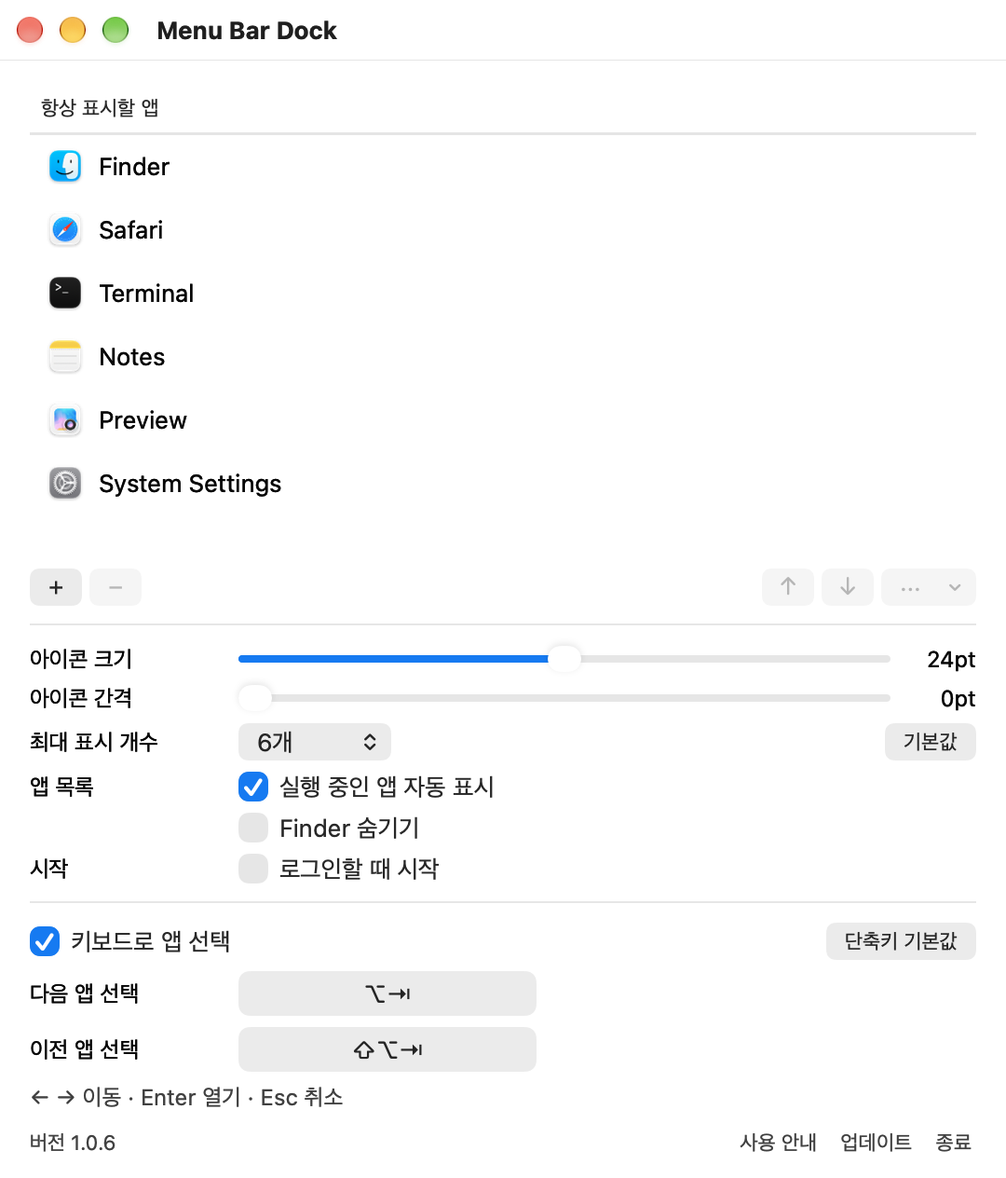
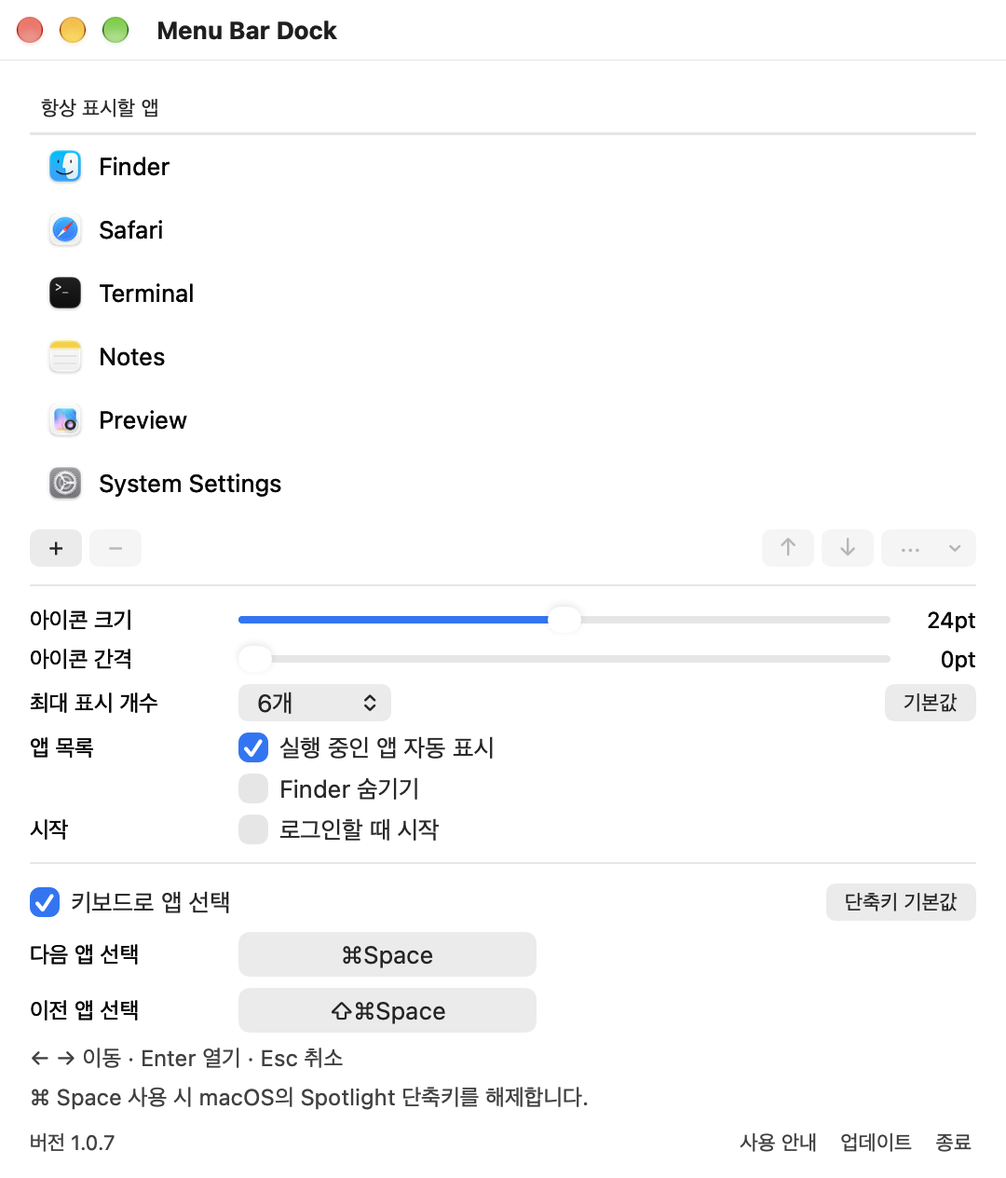
docs: ⌘ Space 사용법과 오픈소스 근거 및 검증 화면 갱신

diff --git a/docs/architecture.md b/docs/architecture.md
@@ -6,7 +6,7 @@
 
 사용자가 정한 순서를 유지하는 메뉴 막대 런처다. 설정에는 **항상 표시할 앱** 단일 목록을 제공한다. 미등록 실행 앱을 앞쪽에, 등록 앱을 뒤쪽에 지정 순서대로 표시하며 두 그룹에 같은 앱을 중복 표시하지 않는다. 실행 앱 자동 표시는 설정으로 끌 수 있다. 앱 활성화는 각 그룹의 상대 순서를 바꾸지 않는다. 실행 중 점·밑줄·배지와 예약 공간은 없다.
 
-단축키는 Option+Tab / Shift+Option+Tab 이동, Enter 실행, Esc 취소다. Option을 놓아도 실행하지 않는다. 사용자가 조합을 변경할 수 있다. 이미 실행된 앱에는 표준 reopen/activate 요청을 보내고, 종료된 앱은 실행한다. 새 창의 디스플레이 강제 지정과 다른 앱 창 이동은 사용자 요청으로 제외했다.
+단축키는 Command+Space / Shift+Command+Space 이동, Enter 실행, Esc 취소다. Command를 놓아도 실행하지 않는다. 사용자가 조합을 변경할 수 있다. 이미 실행된 앱에는 표준 reopen/activate 요청을 보내고, 종료된 앱은 실행한다. 새 창의 디스플레이 강제 지정과 다른 앱 창 이동은 사용자 요청으로 제외했다.
 
 선택 패널의 검색은 `NSMetadataQuery`로 macOS Spotlight 인덱스를 읽는다. `SearchSession`은 검색어별 결과와 선택을 관리하고, `SpotlightSearchService`는 OS 조회·취소·결과 변환을 담당한다. `SwitcherController`는 입력창을 유지한 채 앱 전환과 검색 결과를 전환한다. 새 입력마다 이전 요청을 취소하고 요청 세대 번호도 비교하여 늦은 응답을 버린다. 한글 조합 중에는 검색과 실행을 보류하며, 검색 결과 열기는 `SearchResultOpener`를 통해 처리한다. 검색 명령은 catalog의 등록·순서·제외 상태를 변경하지 않는다. 검색으로 새 앱을 실행했을 때의 Workspace 이벤트는 기존 자동 표시 정책을 따른다.
 
@@ -88,7 +88,7 @@ WorkspaceMonitor는 runningApplications KVO와 실행·종료·활성화·숨김
 
 기본 아이콘은 24pt(16–32pt), 추가 간격은 0pt(0–28pt)다. 원본의 custom image view와 표준 버튼의 렌더링 경계는 다르므로 원본의 40pt 수치를 그대로 사용하지 않는다. 이미지에는 요청한 크기를 그대로 적용한다. 표준 버튼이 이미지 크기에 맞춰 높이를 결정하므로 이전 버튼 높이를 크기의 상한으로 사용하지 않는다. 영역 너비는 아이콘 크기와 추가 간격의 합이다. 0pt에서는 앱이 여백을 추가하지 않으며 macOS가 각 독립 상태 항목에 붙이는 기본 여백은 남는다. 아이콘 크기를 바꿔도 추가 간격을 보존한다. 이미지 크기를 바꿀 때는 독립 복사본을 사용한다. 강제 aqua/darkAqua, 고정 대비 필터, 강제 active material을 사용하지 않는다. 표준 시스템 버튼이 외관과 입력을 담당한다.
 
-상단에는 앱 아이콘만 표시한다. 관리용 말줄임표나 런처 glyph는 없다. 표시 개수를 넘긴 앱은 Option+Tab 선택 패널에서 열고, 우클릭 또는 Control-클릭 메뉴에서 모든 옵션이 있는 단일 설정 창을 연다. Finder에서 앱 재실행 또는 선택 패널의 톱니 버튼으로도 설정을 연다. 앱이 없으면 상태 항목도 없다. 첫 실행은 설정을 열어 앱을 추가할 수 있게 한다.
+상단에는 앱 아이콘만 표시한다. 관리용 말줄임표나 런처 glyph는 없다. 표시 개수를 넘긴 앱은 Command+Space 선택 패널에서 열고, 우클릭 또는 Control-클릭 메뉴에서 모든 옵션이 있는 단일 설정 창을 연다. Finder에서 앱 재실행 또는 선택 패널의 톱니 버튼으로도 설정을 연다. 앱이 없으면 상태 항목도 없다. 첫 실행은 설정을 열어 앱을 추가할 수 있게 한다.
 
 사용자 [회귀 참고 이미지](assets/inactive-display-reference.png)의 흰색 번짐과 청록색 편향은 두 화면에서 비교해야 한다. 외관 강제 지정을 제거한 것만으로 이 문제가 해결됐다고 확정하지 않는다. 노치나 메뉴 폭 때문에 항목이 가려지면 표시 개수를 줄이거나 키보드 선택 패널을 사용한다. `isVisible`은 가림 판정 수단이 아니다. [Apple 문서](https://developer.apple.com/documentation/appkit/nsstatusitem/isvisible).
 
@@ -98,7 +98,11 @@ WorkspaceMonitor는 runningApplications KVO와 실행·종료·활성화·숨김
 
 세션이 열릴 때 목록 순서를 고정한다. 선택 도중 새 앱은 추가하지 않고 사라진 항목만 제거한다. 현재 앱이 없으면 정방향 첫 항목·역방향 마지막 항목부터 시작한다. 방향키·Tab도 이동하며 Return/keypad Enter로 실행한다. 검색 중 좌우 방향키는 글자 커서를 움직이고, Escape는 검색어를 지운 뒤 비어 있는 상태에서 패널을 닫는다. 전역 단축키와 패널 입력이 중복 이동하지 않도록 등록 조합은 전역 경로에서 처리한다.
 
-Carbon에는 지정 조합 두 개만 등록한다. 설정 기록 동안 등록을 중지하고 재개하며, 충돌 때 이전 조합을 복구한다. 키를 누르는 동안에만 반복 타이머가 있고 release/suspend/stop 시 제거한다. 단축키 실패해도 마우스와 설정에 접근할 수 있다.
+기본 조합은 ⌘ Space와 ⇧⌘ Space다. Carbon에는 지정 조합 두 개만 등록한다. 설정 기록 동안 등록을 중지하고 재개하며, 충돌 때 이전 조합을 복구한다. 키를 누르는 동안에만 반복 타이머가 있고 release/suspend/stop 시 제거한다. 단축키 실패해도 마우스와 설정에 접근할 수 있다.
+
+`DockPlatform.SpotlightShortcutOverride`는 ⌘ Space를 등록하기 전에 같은 조합인 Spotlight 시스템 항목 64만 해제하고 변경을 적용한다. 두 키 중 하나라도 등록에 실패하면 이번 시스템 설정 변경을 복구한다. 다른 단축키 항목과 사용자가 따로 지정한 Spotlight 조합은 보존한다. 성공한 해제는 앱 종료 후에도 유지한다. macOS가 해제한 Spotlight 조합의 독점권을 유지하면, ⌘ Space만 Spectacle/MASShortcut과 같은 일반 Carbon 등록으로 전환한다. 먼저 `CopySymbolicHotKeys`로 활성 시스템 충돌이 없는지 확인하며 다른 조합은 독점 등록을 유지한다. 자세한 근거와 한계는 [단축키 설계 결정](adr/0005-command-space-override.md)에 있다.
+
+단축키 저장 데이터에는 기본값 세대를 기록한다. 이전 기본 조합 두 개를 함께 쓰던 설정만 한 번 이전하며, 새 버전에서 사용자가 다시 지정한 조합은 다음 시작에도 유지한다. 선택 패널은 표시 문자열이 아니라 현재 등록한 키 코드·수정 키와 비교해 중복 입력을 소비한다.
 
 ApplicationLauncher는 같은 설치 경로의 진행 중 요청을 합친다. NSWorkspace.openApplication에 `createsNewApplicationInstance=false`, `allowsRunningApplicationSubstitution=false`를 명시한다. 신규·기존 앱 모두 activates=true인 표준 open/reopen 요청을 한 번 보낸다. 비활성 reopen 후 별도 activate를 보내던 경로는 제거했다. 다른 설치 위치가 반환되거나 OS가 실행을 거절하면 오류를 전달한다. 사용자 의도 없는 재시도나 강제 focus 탈취는 없다. [OpenConfiguration](https://developer.apple.com/documentation/appkit/nsworkspace/openconfiguration).
 

diff --git a/docs/verification/1.0.7.md b/docs/verification/1.0.7.md
@@ -1,0 +1,41 @@
+# 1.0.7 ⌘ Space 검증
+
+날짜: 2026-09-30. macOS 27.0, Apple Silicon, Apple Swift 6.4 / Command Line Tools에서 수행했다.
+
+## 변경 범위
+
+기본 단축키를 ⌘ Space / ⇧⌘ Space로 바꾸고 이전 기본값 두 개만 한 번 이전한다. 같은 키를 쓰는 Spotlight 설정을 해제한 다음 Carbon에 등록한다. 사용자 지정 Spotlight 키·다른 시스템 설정은 보존하고 등록 실패 시 이번 설정 변경을 복구한다. 선택 패널은 현재 조합에 해당하는 입력만 소비한다.
+
+Spectacle과 Rectangle/MASShortcut의 원문 소스, 일반 등록과 시스템 충돌 검사를 선택한 근거는 [설계 결정](../adr/0005-command-space-override.md)에 있다.
+
+## 로컬 결과
+
+| 검증 | 결과 |
+| --- | --- |
+| 경고를 오류로 처리한 Swift 빌드 | 통과 |
+| Swift Testing | 213개 통과: 앱/UI 70, 단축키 18, 플랫폼 60, 도메인 32, 저장 33 |
+| 시스템 설정 단위 테스트 | 기본값 부재, 기존 해제, 사용자 지정 키, 다른 항목 보존, 적용 실패 복구, 동시 변경, 저장 실패 확인 |
+| 단축키 단위 테스트 | 한 번만 이전, 사용자 지정 보존, 준비 실패, 두 번째 키 등록 실패 복구, 중복 조합, 반복·취소·해제 확인 |
+| `mise run global-shortcut-check` | Spotlight가 켜진 상태에서 자동 해제, System Events → WindowServer → Carbon의 ⌘ Space / ⇧⌘ Space / ⌘ Space 입력이 각각 1 / -1 / 1로 전달됨 |
+| 네이티브 메뉴 막대 입력 | 독립 시스템 버튼·클릭·실제 크기·간격·제거/복원 검사 통과 |
+| 네이티브 설정 입력 | 크기·간격 드래그와 손잡이 유지 검사 통과 |
+| 네이티브 선택 패널 입력 | 정·역방향 중복 이동 및 공백 입력 방지, 검색·Enter·Esc·한글 조합·포커스 검사 통과 |
+| `mise run release-test` | 메타데이터 23개, 패키지 정책 17개, 게시 실패/재개 38개 통과 |
+| `mise run package-test` | arm64 앱·ZIP·DMG 생성 및 실제 압축 해제/마운트, 서명·버전·리소스·자체 진단·SHA-256 확인 |
+| 배포 시작 검사 격리 | 별도 번들 ID에 이전 단축키 데이터를 넣어 시작·저장·종료 후 바이트가 그대로 유지되고 Spotlight 설정도 동일한지 확인 |
+
+첫 전체 검사에서는 선택 패널에 예상하지 않은 추가 텍스트가 들어와 검색어 검사 하나가 실패했다. 단독 선택 패널 검사와 이미지 생성 과정의 동일 검사를 다시 실행해 모두 통과했다. GUI 검사는 실제 데스크톱 입력을 공유하므로 검사 창의 외부 입력은 결과에 영향을 줄 수 있다.
+
+## 문서 화면
+
+실제 제품의 AppKit 뷰를 시스템 앱만 넣어 렌더링했다. 설정의 새 단축키·Spotlight 안내·버전 1.0.7과 하단 버튼이 잘리지 않는지 확인했다.
+
+- [설정 화면](../assets/settings.png)
+- [선택 패널](../assets/switcher.png)
+- [검색 결과](../assets/search.png)
+
+## 배포와 미확인 범위
+
+릴리스는 문서까지 커밋·푸시한 최종 main에서 `mise run release`로 다시 검사·패키징한다. 게시 도구는 첨부 파일을 다시 내려받아 원본과 비교하고 기존 공개 태그·파일을 덮어쓰지 않는다.
+
+서명은 ad-hoc이며 Developer ID 서명·Apple 공증은 수행하지 않았다. 물리 키보드 입력, macOS 14–26 전체, 다른 런처와 같은 조합을 동시에 사용하는 모든 경우, 다중 화면·Spaces/fullscreen·재부팅은 이 결과만으로 검증됐다고 보지 않는다. 내부 설정 적용 도구가 없는 OS에서는 오류와 수동 설정 경로를 안내한다.

diff --git a/docs/adr/0005-command-space-override.md b/docs/adr/0005-command-space-override.md
@@ -1,0 +1,27 @@
+# ⌘ Space와 Spotlight 시스템 설정
+
+2026-09-30. 앱 선택의 기본 키를 ⌘ Space / ⇧⌘ Space로 바꾸고 macOS 설정보다 우선 사용한다.
+
+## 오픈소스 근거
+
+- [Spectacle의 단축키 관리자](https://github.com/eczarny/spectacle/blob/e75c341ec2cba179c1bb8aa726a870c4132207df/Spectacle/Sources/SpectacleShortcutManager.m)는 `RegisterEventHotKey`, `GetEventDispatcherTarget`, 일반 등록 옵션을 사용한다.
+- [Rectangle의 단축키 관리자](https://github.com/rxhanson/Rectangle/blob/c0ae7f87abe66f66b2857fbd4ad19ef802a9b43a/Rectangle/ShortcutManager.swift)는 MASShortcut에 등록을 맡긴다.
+- [MASShortcut의 등록 구현](https://github.com/cocoabits/MASShortcut/blob/6f2603c6b6cc18f64a799e5d2c9d3bbc467c413a/Framework/Monitoring/MASHotKey.m)도 같은 일반 Carbon 등록을 사용한다. [검증기](https://github.com/cocoabits/MASShortcut/blob/6f2603c6b6cc18f64a799e5d2c9d3bbc467c413a/Framework/Model/MASShortcutValidator.m)는 `CopySymbolicHotKeys`로 켜진 시스템 조합을 확인한다.
+
+소스의 API 사용과 수명 관리를 참고했으며 라이브러리나 코드를 복사해 포함하지 않는다. 기존 앱의 접근성 권한은 타 앱 창 제어에도 필요하므로 이를 단축키 가로채기 구현의 근거로 보지 않는다.
+
+## 선택
+
+`DockPlatform`에서 CFPreferences로 `com.apple.symbolichotkeys`의 Spotlight 항목 64만 변경한다. 켜진 키가 ⌘ Space일 때만 해제하고 다른 조합·항목·원래 키 값은 그대로 둔다. `activateSettings -u`를 실행해 현재 세션에 적용하며 실행 시간은 3초로 제한한다. 도구가 없거나 설정 저장·적용에 실패하면 오류를 반환한다.
+
+`DockShortcuts`는 플랫폼의 준비 콜백 뒤 두 조합을 등록한다. ⌘ Space의 독점 등록이 충돌하면 활성 시스템 조합이 없는지 먼저 확인하고 일반 등록으로 전환한다. 나머지 조합의 독점 등록·오류 처리는 유지한다. 두 번째 키 등록까지 성공해야 완료이며 실패하면 등록과 이번 시스템 설정 변경을 복구한다. 복구 중 사용자가 바꾼 Spotlight 값이나 다른 항목은 덮어쓰지 않는다.
+
+정상 적용한 Spotlight 해제는 사용자 설정으로 유지하며 앱 종료 시 자동 복구하지 않는다. 복구는 Menu Bar Dock의 키를 끄거나 변경한 뒤 시스템 설정에서 Spotlight를 다시 켜는 방식이다. 사용자 안내와 설정 화면에 이 동작을 명시한다.
+
+## 범위와 한계
+
+일반 키 감시용 event tap이나 접근성 권한을 앱에 추가하지 않는다. Carbon 일반 등록은 다른 앱의 독점 등록을 강제로 빼앗지 못한다. 같은 키를 사용하는 별도 런처의 설정은 사용자 안내에 따라 해제해야 한다.
+
+Spotlight 설정 적용 도구는 macOS 내부 경로에 있으므로 지원 OS별 실제 확인이 필요하다. macOS 27에서 전역 이벤트 전달을 확인했으며 macOS 14–26 전체를 검증했다고 주장하지 않는다. 실패 시 수동 설정 경로를 알려 주고 메뉴 막대의 마우스 조작은 계속 제공한다.
+
+기본값 이전 세대를 저장하여 이전 기본 조합 두 개만 한 번 이전한다. 선택 패널의 로컬 입력 제외도 현재 키 코드와 수정 키를 사용한다. 배포 시작 검사는 이 서비스 자체를 시작하지 않아 사용자 설정에 영향을 주지 않는다.

diff --git a/README.md b/README.md
@@ -6,7 +6,7 @@ Dock은 숨기고, 앱은 메뉴 막대에서 여세요.
   <img src="docs/assets/menu-bar-hero.png" width="605" alt="실제 macOS 메뉴 막대에 나란히 놓인 시스템 설정, ChatGPT, Safari, Slack, Notion, Visual Studio Code, Finder 아이콘">
 </p>
 
-각 앱 아이콘을 클릭하면 바로 실행하거나 전환합니다. 앱 순서·크기·간격을 조절하고, 메뉴 막대에 다 들어가지 않는 앱은 `Option+Tab`으로 선택할 수 있습니다.
+각 앱 아이콘을 클릭하면 바로 실행하거나 전환합니다. 앱 순서·크기·간격을 조절하고, 메뉴 막대에 다 들어가지 않는 앱은 `Command+Space`로 선택할 수 있습니다.
 
 [다운로드·설치](#시작하기) · [사용 안내](docs/user-guide.md) · [개발과 기여](CONTRIBUTING.md)
 
@@ -23,13 +23,15 @@ macOS 14 이상의 Apple Silicon Mac에서 사용할 수 있습니다.
 ## 사용하기
 
 - 메뉴 막대의 앱 아이콘을 **왼쪽 클릭**하면 앱이 열립니다.
-- `Option+Tab` 패널의 **톱니 버튼**으로 설정을 엽니다. 아이콘 우클릭 메뉴나 Menu Bar Dock 재실행으로도 열 수 있습니다.
+- `Command+Space` 패널의 **톱니 버튼**으로 설정을 엽니다. 아이콘 우클릭 메뉴나 Menu Bar Dock 재실행으로도 열 수 있습니다.
 - 설정의 **항상 표시할 앱**에 `+`로 추가하고 드래그로 순서를 정합니다. `−`는 고정만 해제하며, 실행 중인 앱은 앞쪽에 남고 종료하면 사라집니다.
 - 등록하지 않은 실행 중 앱은 앞쪽에, 등록한 앱은 뒤쪽에 저장한 순서로 표시합니다. 같은 앱은 한 번만 표시합니다.
 
 macOS Dock에 고정한 앱과 Finder는 자동으로 가져옵니다. Finder가 필요 없으면 설정에서 **Finder 숨기기**를 켜세요. 아이콘 크기·간격·최대 표시 개수와 로그인할 때 시작 여부도 설정에서 바꿀 수 있습니다.
 
-`Option+Tab`으로 앱을 고른 뒤 **Enter**로 엽니다. 패널에서 이름을 입력하면 이 Mac의 앱을 검색합니다. **Esc**는 검색어를 지우고, 검색어가 없으면 패널을 닫습니다.
+`Command+Space`는 macOS Spotlight 대신 Menu Bar Dock을 엽니다. 기본 조합을 사용하면 Spotlight의 해당 단축키를 자동으로 해제합니다.
+
+`Command+Space`로 앱을 고른 뒤 **Enter**로 엽니다. 패널에서 이름을 입력하면 이 Mac의 앱을 검색합니다. **Esc**는 검색어를 지우고, 검색어가 없으면 패널을 닫습니다.
 
 <details>
 <summary>설정과 키보드 선택 화면</summary>
@@ -39,7 +41,7 @@ macOS Dock에 고정한 앱과 Finder는 자동으로 가져옵니다. Finder가
 </p>
 
 <p align="center">
-  <img src="docs/assets/switcher.png" width="420" alt="검색 입력창과 앱 아이콘을 함께 보여 주는 Option+Tab 선택 패널">
+  <img src="docs/assets/switcher.png" width="420" alt="검색 입력창과 앱 아이콘을 함께 보여 주는 Command+Space 선택 패널">
 </p>
 
 </details>

diff --git a/docs/assets/README.md b/docs/assets/README.md
@@ -1,10 +1,10 @@
 # 문서 이미지
 
 - `menu-bar-hero.png`: README 대표 이미지. 2026-09-28, macOS 27에서 실행한 Menu Bar Dock 1.0.3의 실제 메뉴 막대 영역을 캡처했다. 오른쪽에는 macOS의 일반 상태 항목도 보인다. 1210×78px 원본을 605px 너비로 표시해 Retina 해상도를 유지한다.
-- `settings.png`: Finder 숨기기 옵션을 포함한 실제 설정 뷰를 시스템 앱 6개로 렌더링한 이미지. README에서는 접힌 영역 안에서 540px 너비로 표시한다. `./scripts/check-settings-input.sh --snapshot docs/assets/settings.png`로 다시 생성한다. 개인 설정이나 화면 배경을 포함하지 않는다.
+- `settings.png`: 1.0.7의 ⌘ Space / ⇧⌘ Space, Spotlight 단축키 해제 안내와 Finder 숨기기 옵션을 포함한 실제 설정 뷰를 시스템 앱 6개로 렌더링한 이미지. README에서는 접힌 영역 안에서 540px 너비로 표시한다. `./scripts/check-settings-input.sh --snapshot docs/assets/settings.png`로 다시 생성한다. 개인 설정이나 화면 배경을 포함하지 않는다.
 - `app-icon.png`: `scripts/make-icon.swift`의 256px 출력. 흰 타일 위에 흑연색 메뉴 막대 심볼 하나를 그리며 재질은 원본에 포함되어 있다. macOS가 정적 ICNS에 자동으로 추가하는 효과가 아니다. 시안은 내장 imagegen으로 탐색했고 배포 아이콘은 투명한 윤곽과 작은 크기의 선명도를 위해 AppKit 벡터로 렌더링한다.
 - `settings-1.0.3.png`: 1.0.3 검증 기록에 사용한 이전 단일 설정 창 캡처.
-- `switcher.png`: 1.0.4의 실제 앱 선택 뷰를 시스템 앱 3개로 렌더링한 이미지. README의 단축키 설명에서 420px 너비로 표시한다.
+- `switcher.png`: 1.0.7의 실제 앱 선택 뷰를 시스템 앱 3개로 렌더링한 이미지. README의 단축키 설명에서 420px 너비로 표시한다.
 - `search.png`: 같은 뷰의 앱 검색 결과. 실제 설치된 Finder·Safari·Terminal을 검증용 결과로 주입해 아이콘과 이름 한 줄을 확인한다. 개인 검색 결과나 경로는 포함하지 않는다.
 - `menu-bar.png`: 입력 검증 도구가 실제 시스템 버튼을 개별 렌더해 나란히 배치한 참고 이미지. 데스크톱 메뉴 막대 전체 캡처와 구별한다.
 - `appearance.png`: 1.0.2의 표시 설정 기록.

diff --git a/docs/releasing.md b/docs/releasing.md
@@ -132,7 +132,8 @@ awk '$2 == "MenuBarDock-1.0.4-arm64.dmg" { print }' SHA256SUMS | shasum -a 256 -
 패키지 검사는 다른 Mac에서 다운로드한 앱의 최초 설치를 대신하지 않습니다. 다음 항목은 실제로 수행한 결과만 [검증 기록](verification/)에 남깁니다.
 
 - Applications에서 실행, Finder 재실행으로 설정 열기, 로그인 시작 등록·해제
-- 메뉴 막대의 앱별 클릭·순서 저장, Option+Tab 전체 목록·반복 입력·단축키 충돌
+- 메뉴 막대의 앱별 클릭·순서 저장, Command+Space 전체 목록·반복 입력·단축키 충돌
+- `mise run global-shortcut-check`: Spotlight 설정 자동 해제와 실제 전역 입력. 같은 키를 사용하는 앱을 먼저 종료하고 [검사 안내](../CONTRIBUTING.md#전역-단축키-검증)에 따라 명시적으로 실행
 - 화면 배율·비활성 디스플레이·노치·Spaces·전체 화면과 장시간 사용
 - 지원 macOS 버전별 실제 동작과 다운로드 파일의 Gatekeeper 허용 상태
 
@@ -144,4 +145,4 @@ awk '$2 == "MenuBarDock-1.0.4-arm64.dmg" { print }' SHA256SUMS | shasum -a 256 -
 | `--smoke-test --data-directory <임시 경로>` | 별도 JSON 저장 경로에서 시작·저장·정상 종료 |
 | `--show-settings` | 시작 후 설정 창 표시 |
 
-`smoke-test`는 임시 JSON 디렉터리를 사용합니다. 단축키 UserDefaults와 로그인 항목은 macOS의 별도 저장소이므로 이 검사에서 변경하지 않습니다. 진단 로그의 사용자 앱 경로와 이름은 기본적으로 비공개로 처리합니다.
+`smoke-test`는 임시 JSON 디렉터리를 사용합니다. 전역 단축키 서비스는 시작하지 않으므로 단축키 UserDefaults·Spotlight 설정을 변경하거나 실행 중인 앱의 키를 점유하지 않습니다. 로그인 항목도 변경하지 않습니다. 진단 로그의 사용자 앱 경로와 이름은 기본적으로 비공개로 처리합니다.

diff --git a/CHANGELOG.md b/CHANGELOG.md
@@ -1,5 +1,13 @@
 # 변경 기록
 
+## 1.0.7
+
+- 기본 단축키를 `Command+Space` / `Shift+Command+Space`로 변경. 이전 기본 조합 두 개를 쓰던 설정만 한 번 이전하고 사용자 지정 조합은 보존.
+- 같은 ⌘ Space를 사용하는 macOS Spotlight 단축키를 자동 해제. Spectacle·Rectangle/MASShortcut의 Carbon 등록 방식을 참고해 해제 후에도 남는 시스템 독점 등록 충돌 처리. 다른 시스템 설정과 사용자 지정 Spotlight 조합은 보존하고 등록 실패 시 이번 변경 복구.
+- 선택 패널에서 현재 등록한 조합을 기준으로 중복 입력을 소비하여 두 번 이동하거나 검색어에 공백이 들어가는 문제 방지.
+- System Events를 사용하는 전역 입력 검사와 시스템 설정 실패·복구·기본값 이전 테스트 추가. 배포 시작 검사는 사용자 전역 단축키 설정과 분리.
+- README·사용 안내·개발 및 배포 문서·설정 화면 이미지를 새 조합과 Spotlight 복구 방법에 맞춰 갱신.
+
 ## 1.0.6
 
 - **Finder 숨기기** 설정 추가. 메뉴 막대와 기본 앱 선택 목록에서 Finder만 숨기고 등록 상태·순서는 보존. 이름으로 검색해서 열기는 계속 지원.

diff --git a/docs/module-contracts.md b/docs/module-contracts.md
@@ -43,7 +43,8 @@ AppKit/Carbon 경계다. 다른 로컬 target에 의존하지 않는다.
 - `GlobalShortcutService`: setEnabled, setBinding, binding, reset, suspend, stop.
 - `cancelCurrentPress()`: 패널을 닫을 때 현재 누름의 반복을 제거하고 release까지 재호출을 막는다.
 - 등록 backend를 주입해 충돌·롤백·키 해제·재진입을 실제 시스템 설정 변경 없이 테스트한다.
-- UserDefaults가 단축키 조합을 단독 소유한다. 등록 실패 상태와 사용자가 원하는 enabled 상태를 구분한다.
+- 기본 조합은 ⌘ Space / ⇧⌘ Space다. UserDefaults가 단축키 조합과 기본값 이전 세대를 단독 소유한다. 등록 실패 상태와 사용자가 원하는 enabled 상태를 구분한다.
+- `ApplicationController`가 `DockPlatform.SpotlightShortcutOverride`를 등록 준비 콜백으로 연결한다. 시스템 설정 변경은 플랫폼에서, 두 키 등록과 실패 시 복구는 단축키 서비스에서 책임진다. `--smoke-test`에서는 이 경로를 실행하지 않는다.
 
 ## UI와 앱 조립
 

diff --git a/docs/upstream-audit.md b/docs/upstream-audit.md
@@ -79,3 +79,7 @@ Mach-O universal binary: x86_64 + arm64
 ## 1.0.3 실제 렌더링 재검증
 
 1.0.2의 버튼 높이 제한은 이전 이미지로 결정된 높이를 다시 상한으로 삼아 크기 증가를 막았다. 해당 제한을 제거하고 16–32pt 이미지 사각형과 실제 렌더 픽셀 면적이 함께 증가하는지 네이티브 실행 루프에서 검사한다. 앱별 시스템 버튼을 유지하며 앱이 추가하는 간격은 0pt부터 조절한다. 자세한 결과는 [1.0.3 검증](verification/1.0.3.md)에 기록한다.
+
+## 1.0.7 전역 단축키 참고
+
+2026-09-30에 Spectacle과 Rectangle/MASShortcut의 단축키 소스를 확인했다. 두 구현에서 확인한 Carbon 일반 등록·dispatcher target과 시스템 충돌 검사, 이번 구현에 적용한 범위는 [⌘ Space 설계 결정](adr/0005-command-space-override.md)에 커밋별 원문 링크와 함께 기록한다.
